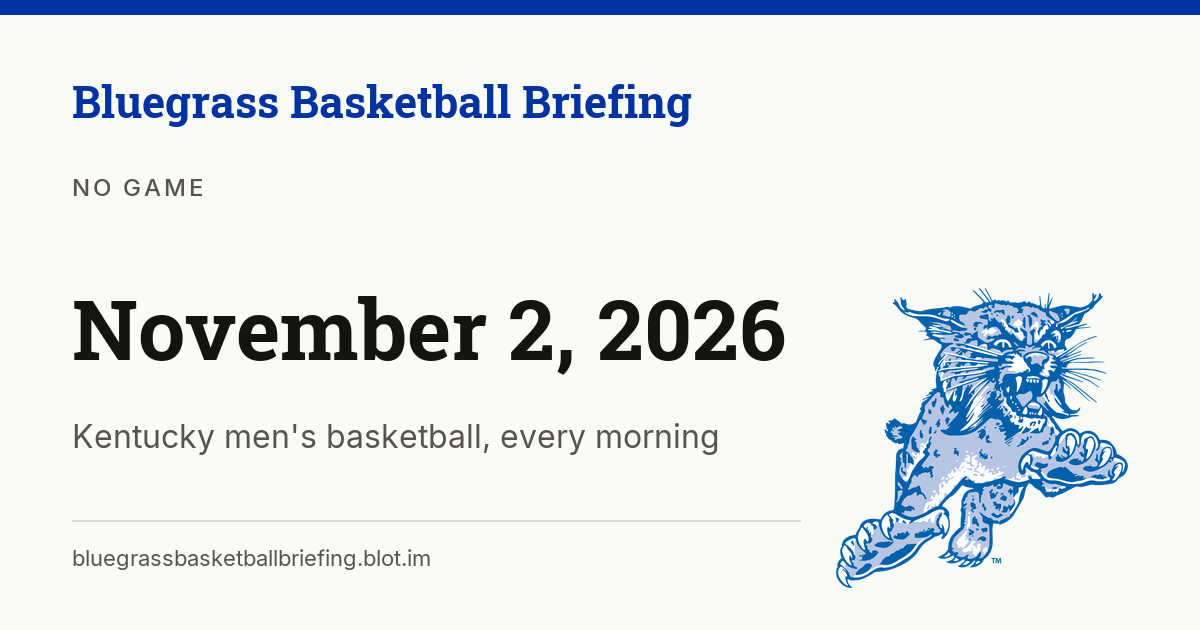
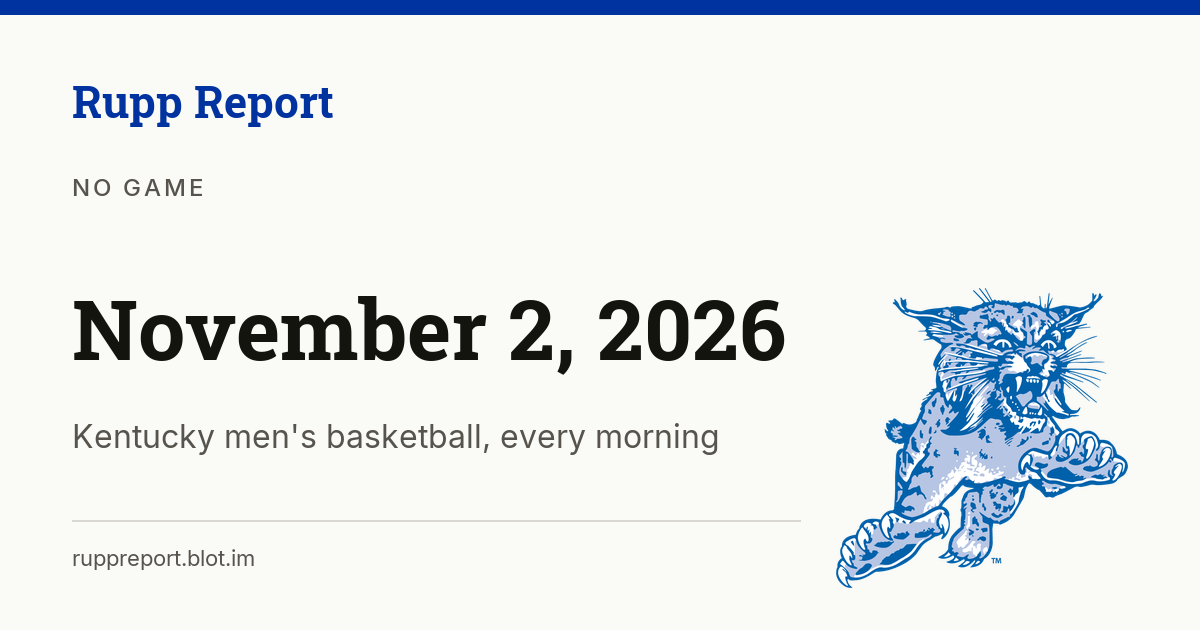
Rename the site to Rupp Report

Changed region(s): [[0.0617, 0.1206, 0.5858, 0.2111], [0.0617, 0.8746, 0.37, 0.9048]]

diff --git a/about.md b/about.md
@@ -4,7 +4,7 @@ title: About
 permalink: /about/
 ---
 
-Bluegrass Basketball Briefing is an automated daily post about Kentucky men's basketball. Each morning a pipeline pulls box scores, play-by-play, advanced ratings, beat-writer articles, podcast transcripts, and recruiting news, then assembles a structured Briefing covering the previous day. A verification pass strips any claim the sources don't support before publishing.
+Rupp Report is an automated daily post about Kentucky men's basketball. Each morning a pipeline pulls box scores, play-by-play, advanced ratings, beat-writer articles, podcast transcripts, and recruiting news, then assembles a structured Briefing covering the previous day. A verification pass strips any claim the sources don't support before publishing.
 
 Sources include ESPN, Sports Reference, Bart Torvik, EvanMiya, Kentucky Sports Radio, A Sea of Blue, Wildcat Blue Nation, the Lexington Herald-Leader, 247Sports, and a rotating set of YouTube channels.
 

diff --git a/index.md b/index.md
@@ -1,8 +1,8 @@
 ---
 layout: home
-title: Bluegrass Basketball Briefing
+title: Rupp Report
 ---
 
-Welcome to the **Bluegrass Basketball Briefing** — your daily digest for everything Kentucky basketball. Stay up to date with game recaps, recruiting news, player updates, and analysis straight from Big Blue Nation.
+Welcome to **Rupp Report** — your daily digest for everything Kentucky basketball. Stay up to date with game recaps, recruiting news, player updates, and analysis straight from Big Blue Nation.
 
 Browse the latest posts below.

diff --git a/_posts/2026-11-01-bluegrass-basketball-briefing.md b/_posts/2026-11-01-bluegrass-basketball-briefing.md
@@ -1,6 +1,6 @@
 ---
 layout: post
-title: "Bluegrass Basketball Briefing — November 1, 2026 (No Game)"
+title: "Rupp Report — November 1, 2026 (No Game)"
 date: 2026-11-01 09:00:00 -0500
 categories: briefing
 tags: [kentucky-basketball, off-day]

diff --git a/_posts/2026-10-25-bluegrass-basketball-briefing.md b/_posts/2026-10-25-bluegrass-basketball-briefing.md
@@ -1,6 +1,6 @@
 ---
 layout: post
-title: "Bluegrass Basketball Briefing — Week of October 25, 2026"
+title: "Rupp Report — Week of October 25, 2026"
 date: 2026-10-25 09:00:00 -0400
 categories: briefing
 tags: [kentucky-basketball, off-season]

diff --git a/_posts/2026-10-26-bluegrass-basketball-briefing.md b/_posts/2026-10-26-bluegrass-basketball-briefing.md
@@ -1,6 +1,6 @@
 ---
 layout: post
-title: "Bluegrass Basketball Briefing — Week of October 26, 2026"
+title: "Rupp Report — Week of October 26, 2026"
 date: 2026-10-26 09:00:00 -0400
 categories: briefing
 tags: [kentucky-basketball, off-season]

diff --git a/_posts/2026-10-27-bluegrass-basketball-briefing.md b/_posts/2026-10-27-bluegrass-basketball-briefing.md
@@ -1,6 +1,6 @@
 ---
 layout: post
-title: "Bluegrass Basketball Briefing — Week of October 27, 2026"
+title: "Rupp Report — Week of October 27, 2026"
 date: 2026-10-27 09:00:00 -0400
 categories: briefing
 tags: [kentucky-basketball, off-season]

diff --git a/_posts/2026-10-28-bluegrass-basketball-briefing.md b/_posts/2026-10-28-bluegrass-basketball-briefing.md
@@ -1,6 +1,6 @@
 ---
 layout: post
-title: "Bluegrass Basketball Briefing — Week of October 28, 2026"
+title: "Rupp Report — Week of October 28, 2026"
 date: 2026-10-28 09:00:00 -0400
 categories: briefing
 tags: [kentucky-basketball, off-season]

diff --git a/_posts/2026-10-29-bluegrass-basketball-briefing.md b/_posts/2026-10-29-bluegrass-basketball-briefing.md
@@ -1,6 +1,6 @@
 ---
 layout: post
-title: "Bluegrass Basketball Briefing — Week of October 29, 2026"
+title: "Rupp Report — Week of October 29, 2026"
 date: 2026-10-29 09:00:00 -0400
 categories: briefing
 tags: [kentucky-basketball, off-season]

diff --git a/_posts/2026-10-30-bluegrass-basketball-briefing.md b/_posts/2026-10-30-bluegrass-basketball-briefing.md
@@ -1,6 +1,6 @@
 ---
 layout: post
-title: "Bluegrass Basketball Briefing — Week of October 30, 2026"
+title: "Rupp Report — Week of October 30, 2026"
 date: 2026-10-30 09:00:00 -0400
 categories: briefing
 tags: [kentucky-basketball, off-season]

diff --git a/_posts/2026-10-31-bluegrass-basketball-briefing.md b/_posts/2026-10-31-bluegrass-basketball-briefing.md
@@ -1,6 +1,6 @@
 ---
 layout: post
-title: "Bluegrass Basketball Briefing — Week of October 31, 2026"
+title: "Rupp Report — Week of October 31, 2026"
 date: 2026-10-31 09:00:00 -0400
 categories: briefing
 tags: [kentucky-basketball, off-season]

diff --git a/_posts/2026-11-02-bluegrass-basketball-briefing.md b/_posts/2026-11-02-bluegrass-basketball-briefing.md
@@ -1,6 +1,6 @@
 ---
 layout: post
-title: "Bluegrass Basketball Briefing — November 2, 2026 (No Game)"
+title: "Rupp Report — November 2, 2026 (No Game)"
 date: 2026-11-02 09:00:00 -0500
 image: /assets/og/2026-11-02.png
 categories: briefing

diff --git a/_posts/2026-05-11-bluegrass-basketball-briefing.md b/_posts/2026-05-11-bluegrass-basketball-briefing.md
@@ -1,6 +1,6 @@
 ---
 layout: post
-title: "Bluegrass Basketball Briefing — Week of May 11, 2026"
+title: "Rupp Report — Week of May 11, 2026"
 date: 2026-05-11 09:00:00 -0400
 categories: briefing
 tags: [kentucky-basketball, off-season]
